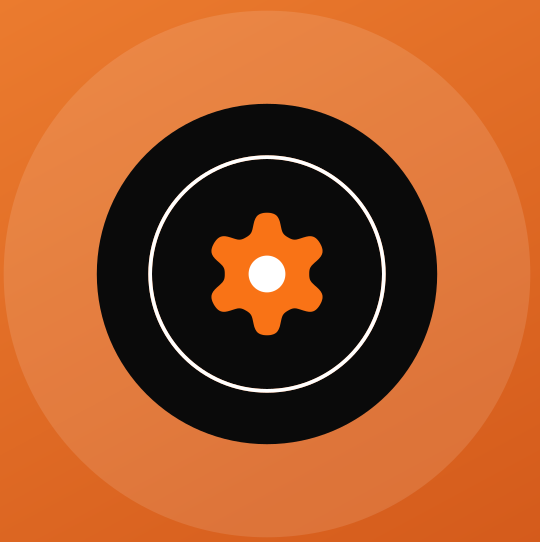
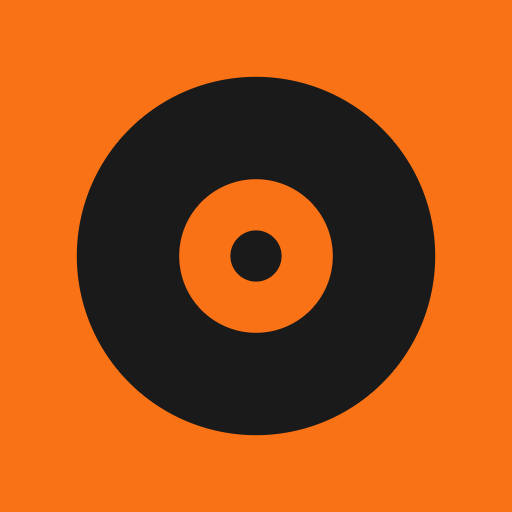
Icono nuevo (Disco de pesa) + copy de features nuevas + SEO (#11)
- Icono: icon.png, favicon.ico y og-banner.png regenerados con el nuevo
  "Disco de pesa" (coincide con el icono de la app; reemplaza el engrane/flor).
- Copy: agrega temporizador con alarma en pantalla bloqueada, catalogo con
  demostracion animada + cardio, y la sugerencia inteligente del clon digital.
- SEO: title con keywords (rutinas de gym, registro de entrenamiento);
  sitemap.xml con fechas actualizadas.

diff --git a/index.html b/index.html
@@ -5,7 +5,7 @@
 <meta name="viewport" content="width=device-width, initial-scale=1">
 <meta http-equiv="Content-Security-Policy" content="default-src 'none'; img-src 'self'; media-src 'self'; style-src 'unsafe-inline'; script-src 'self'; connect-src https://formspree.io; form-action https://formspree.io; base-uri 'none'">
 <meta name="referrer" content="strict-origin-when-cross-origin">
-<title>GymPo · Tu progreso en el gym, siempre contigo</title>
+<title>GymPo · Rutinas de gym y registro de entrenamiento</title>
 <meta name="description" content="GymPo es la app de gimnasio para el registro de entrenamientos: crea rutinas de gym, sigue tu progreso muscular con tu clon digital y lleva tu diario de entrenamiento. Sin anuncios y privada.">
 <link rel="canonical" href="https://gympoapp.com">
 
@@ -525,12 +525,17 @@
       <div class="card">
         <div class="f-ic"><svg width="24" height="24" viewBox="0 0 24 24" fill="currentColor"><path d="M20.6 6.3 17.7 3.4l-1.4 1.4 1.1 1.1-2.5 2.5-2.4-2.4L11 7.6l1.1 1.1-6.4 6.4L4.5 14l-1.4 1.4L6 18.3l1.4-1.4-1.1-1.1 6.4-6.4 2.4 2.4 1.4-1.4-1.1-1.1 2.5-2.5 1.1 1.1 1.4-1.4z"/></svg></div>
         <h3>Entrenamientos y series</h3>
-        <p>Anota ejercicios, series, repeticiones y peso mientras entrenas. Rápido e intuitivo.</p>
+        <p>Anota ejercicios, series, repeticiones y peso mientras entrenas. Con temporizador de descanso que avisa aunque tengas la pantalla bloqueada.</p>
       </div>
       <div class="card">
         <div class="f-ic"><svg width="24" height="24" viewBox="0 0 24 24" fill="currentColor"><path d="M4 4h16v2H4V4zm0 5h16v2H4V9zm0 5h10v2H4v-2zm0 5h10v2H4v-2z"/></svg></div>
         <h3>Rutinas personalizadas</h3>
         <p>Crea tus propias rutinas y ejercicios a tu medida y síguelas sesión tras sesión. Rutinas ilimitadas con Pro.</p>
+      </div>
+      <div class="card">
+        <div class="f-ic"><svg width="24" height="24" viewBox="0 0 24 24" fill="currentColor"><path d="M4 4h16a2 2 0 012 2v12a2 2 0 01-2 2H4a2 2 0 01-2-2V6a2 2 0 012-2zm6 3.5v9l7-4.5-7-4.5z"/></svg></div>
+        <h3>+870 ejercicios con demostración</h3>
+        <p>Catálogo con demostración animada y nombres en español. Filtra por músculo, equipo y nivel. Incluye cardio (tiempo y resistencia).</p>
       </div>
       <div class="card">
         <div class="f-ic"><svg width="24" height="24" viewBox="0 0 24 24" fill="currentColor"><path d="M3 3h2v16h16v2H3V3zm4 10 4-4 3 3 5-5 1.4 1.4L14 15l-3-3-4 4-1-1z"/></svg></div>
@@ -541,7 +546,7 @@
         <span class="pro-tag">PRO</span>
         <div class="f-ic"><svg width="24" height="24" viewBox="0 0 24 24" fill="currentColor"><path d="M12 2a3 3 0 013 3c0 .74-.27 1.42-.7 1.95.99.4 1.7 1.36 1.7 2.55v1h2a2 2 0 012 2v3a2 2 0 01-2 2h-2v2a2 2 0 01-2 2h-4a2 2 0 01-2-2v-2H6a2 2 0 01-2-2v-3a2 2 0 012-2h2v-1c0-1.19.71-2.15 1.7-2.55A2.99 2.99 0 019 5a3 3 0 013-3zm0 2a1 1 0 100 2 1 1 0 000-2z"/></svg></div>
         <h3>Clon digital</h3>
-        <p>Un mapa de calor de tu cuerpo que muestra qué músculos trabajas de más y cuáles tienes pendientes, actualizado con cada entreno.</p>
+        <p>Un mapa de calor de tu cuerpo que muestra qué músculos trabajas de más y cuáles tienes pendientes. Y te dice qué entrenar hoy, armándote una rutina con ejercicios que ya conoces.</p>
       </div>
       <div class="card">
         <div class="f-ic"><svg width="24" height="24" viewBox="0 0 24 24" fill="currentColor"><path d="M4 5h3l2-2h6l2 2h3a2 2 0 012 2v11a2 2 0 01-2 2H4a2 2 0 01-2-2V7a2 2 0 012-2zm8 3a5 5 0 100 10 5 5 0 000-10zm0 2a3 3 0 110 6 3 3 0 010-6z"/></svg></div>
@@ -579,7 +584,7 @@
     <div class="shots-scroll">
       <figure class="shot"><picture><source type="image/webp" srcset="img/entrenar.webp"><img src="img/entrenar.png" alt="Registrar series de un entrenamiento con descanso automático" width="232" height="502" loading="lazy"></picture></figure>
       <figure class="shot"><picture><source type="image/webp" srcset="img/rutinas.webp"><img src="img/rutinas.png" alt="Lista de rutinas personalizadas" width="232" height="502" loading="lazy"></picture></figure>
-      <figure class="shot"><picture><source type="image/webp" srcset="img/ejercicios.webp"><img src="img/ejercicios.png" alt="Biblioteca de ejercicios con guía" width="232" height="502" loading="lazy"></picture></figure>
+      <figure class="shot"><picture><source type="image/webp" srcset="img/ejercicios.webp"><img src="img/ejercicios.png" alt="Biblioteca de ejercicios con demostración animada" width="232" height="502" loading="lazy"></picture></figure>
       <figure class="shot"><picture><source type="image/webp" srcset="img/progreso.webp"><img src="img/progreso.png" alt="Gráficas de progreso y volumen por grupo muscular" width="232" height="502" loading="lazy"></picture></figure>
       <figure class="shot"><picture><source type="image/webp" srcset="img/medidas.webp"><img src="img/medidas.png" alt="Medidas y fotos de progreso" width="232" height="502" loading="lazy"></picture></figure>
       <figure class="shot"><picture><source type="image/webp" srcset="img/perfil.webp"><img src="img/perfil.png" alt="Perfil con acceso a historial, progreso y medidas" width="232" height="502" loading="lazy"></picture></figure>
